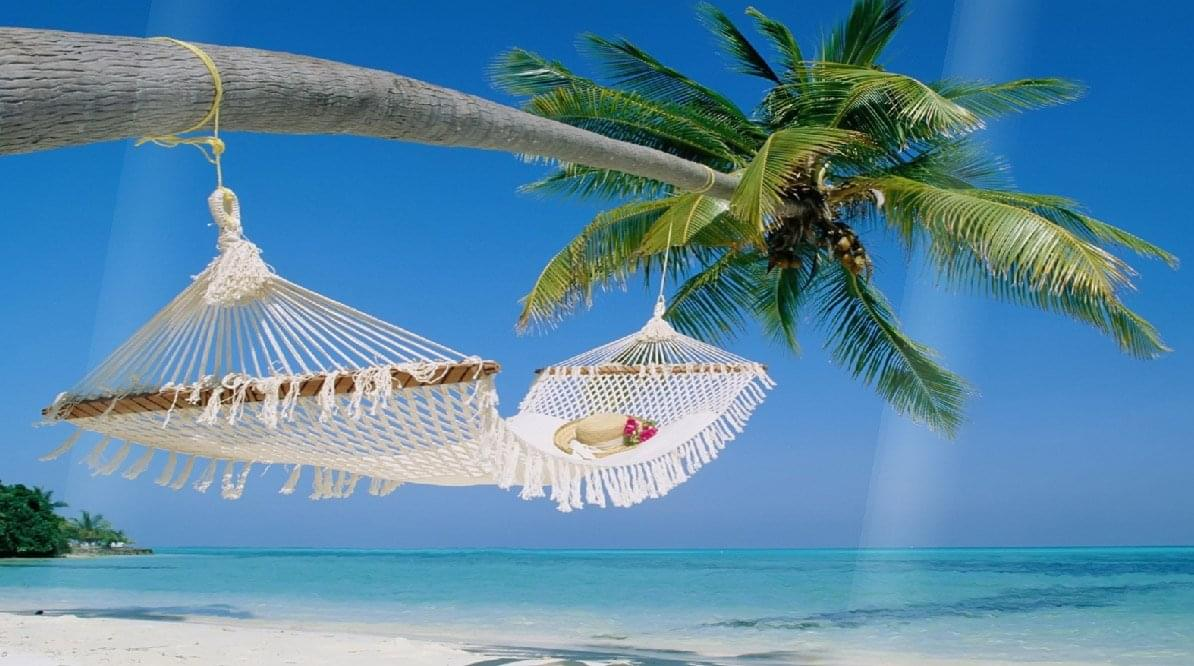
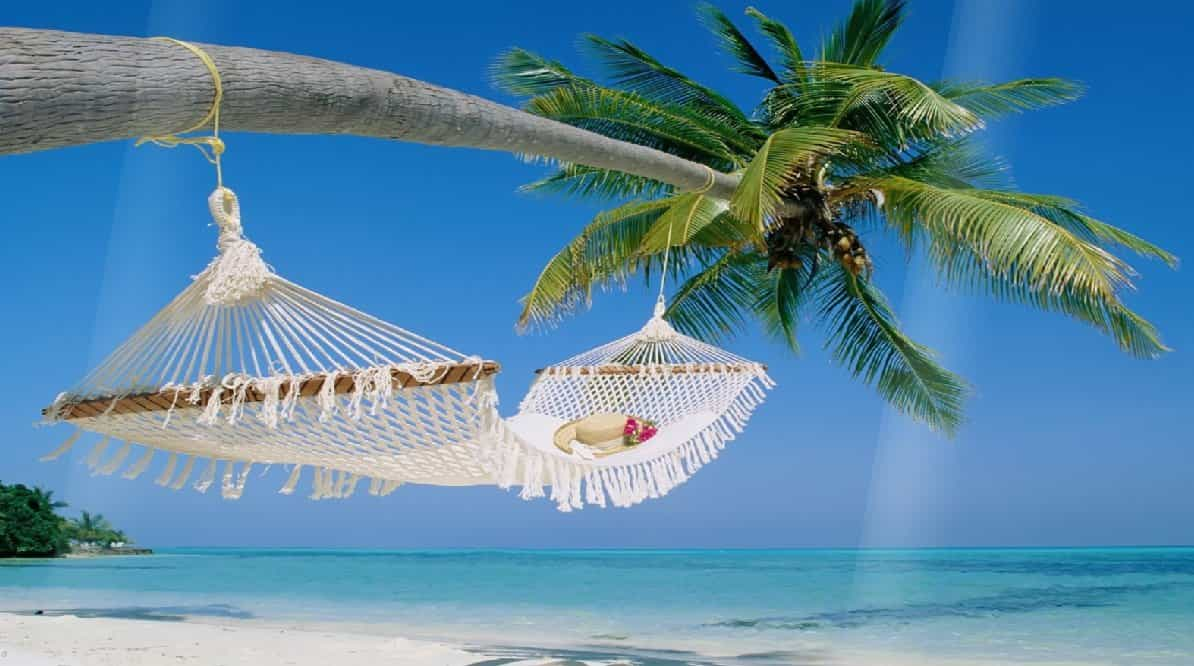
add mozJpeg

diff --git a/15/index.html b/15/index.html
@@ -1,0 +1,30 @@
+<!DOCTYPE html>
+<html lang="en">
+<head>
+    <meta charset="UTF-8">
+    <meta http-equiv="X-UA-Compatible" content="IE=edge">
+    <meta name="viewport" content="width=device-width, initial-scale=1.0">
+    <title>Compress images</title>
+    <link rel="stylesheet" href="assets/css/style.css">
+</head>
+<body>
+    <h2>UNCOMPRESS</h2>
+    <div class="images__uncompress">
+        <img src="assets/images/Beautiful Wallpapers beach sunset wallpaper.jpg" alt="">
+        <img src="assets/images/Free computer wallpaper wallpaper winter scene.jpg" alt="">
+        <img src="assets/images/Nature Wallpapers Marvelous Wallpapers Sunset Desktop Wallpaper.jpg" alt="">
+        <img src="assets/images/Tropical Island Screensaver   Screensavergiftcom.jpg" alt="">
+        <img src="assets/images/Tropical Island Wallpaper 8541 Hd Wallpapers in Beach   Imagescicom.jpg" alt="">
+        <img src="assets/images/Wet Urban New York.jpg" alt="">
+    </div>
+    <h2>COMPRESS</h2>
+    <div class="images__compress">
+        <img src="assets/images_opt/Beautiful Wallpapers beach sunset wallpaper.jpg" alt="">
+        <img src="assets/images_opt/Free computer wallpaper wallpaper winter scene.jpg" alt="">
+        <img src="assets/images_opt/Nature Wallpapers Marvelous Wallpapers Sunset Desktop Wallpaper.jpg" alt="">
+        <img src="assets/images_opt/Tropical Island Screensaver   Screensavergiftcom.jpg" alt="">
+        <img src="assets/images_opt/Tropical Island Wallpaper 8541 Hd Wallpapers in Beach   Imagescicom.jpg" alt="">
+        <img src="assets/images_opt/Wet Urban New York.jpg" alt="">
+    </div>
+</body>
+</html>

diff --git a/15/gulpfile.js b/15/gulpfile.js
@@ -1,10 +1,13 @@
 "use strict";
 import gulp from 'gulp';
 import imagemin from 'gulp-imagemin';
+import imageminMozjpeg from 'imagemin-mozjpeg';
 
 async function optimizeImg(){
 	gulp.src('./assets/images/*')
-		.pipe(imagemin())
+		.pipe(imagemin([
+            imageminMozjpeg({quality: 50, progressive: true}),
+        ]))
 		.pipe(gulp.dest('./assets/images_opt/'))
 };
 

diff --git a/15/assets/css/style.css b/15/assets/css/style.css
@@ -1,0 +1,3 @@
+.images__compress > img, .images__uncompress > img {
+    width: 500px;
+}
